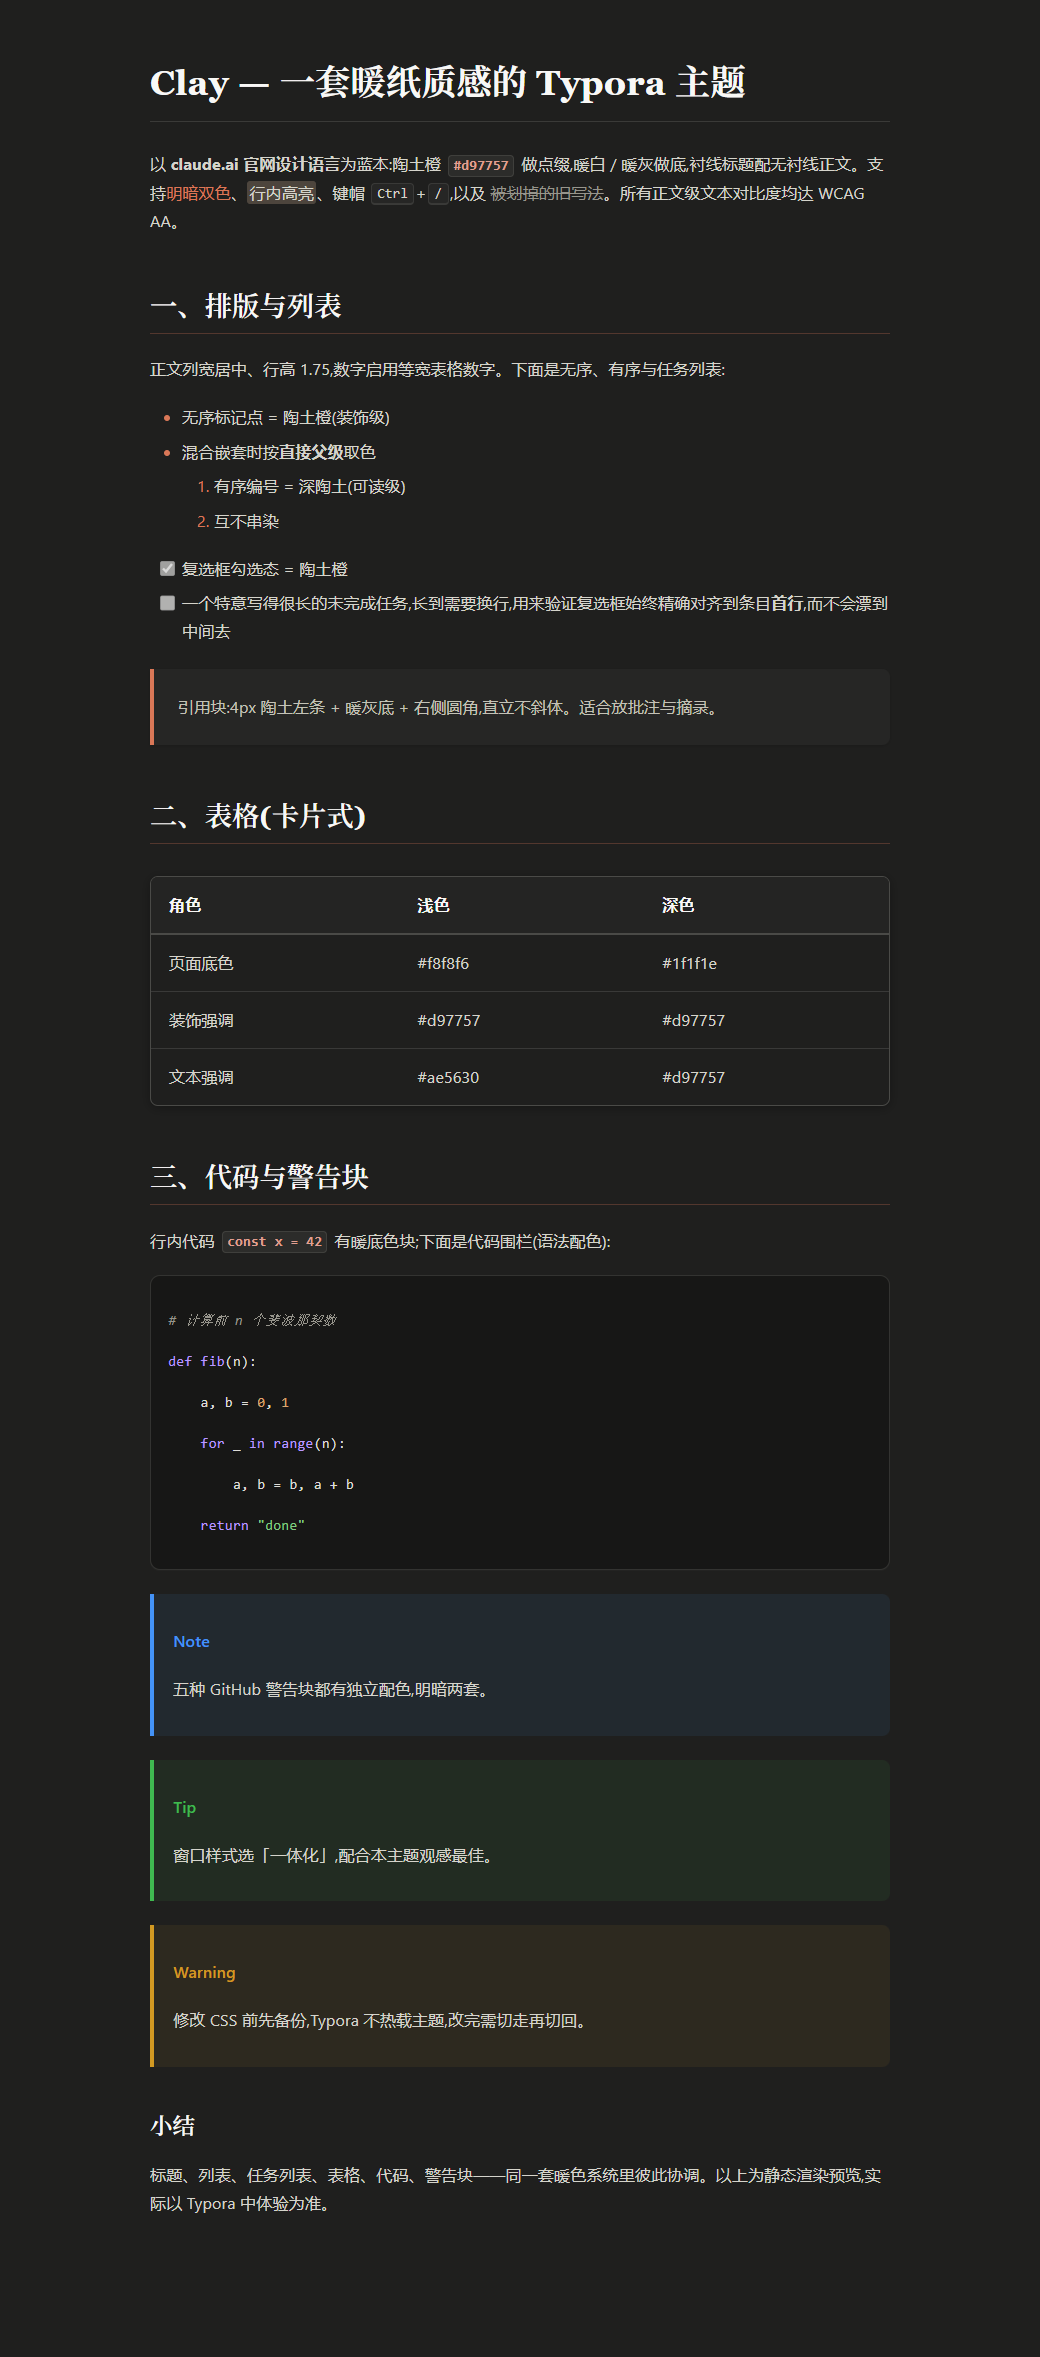
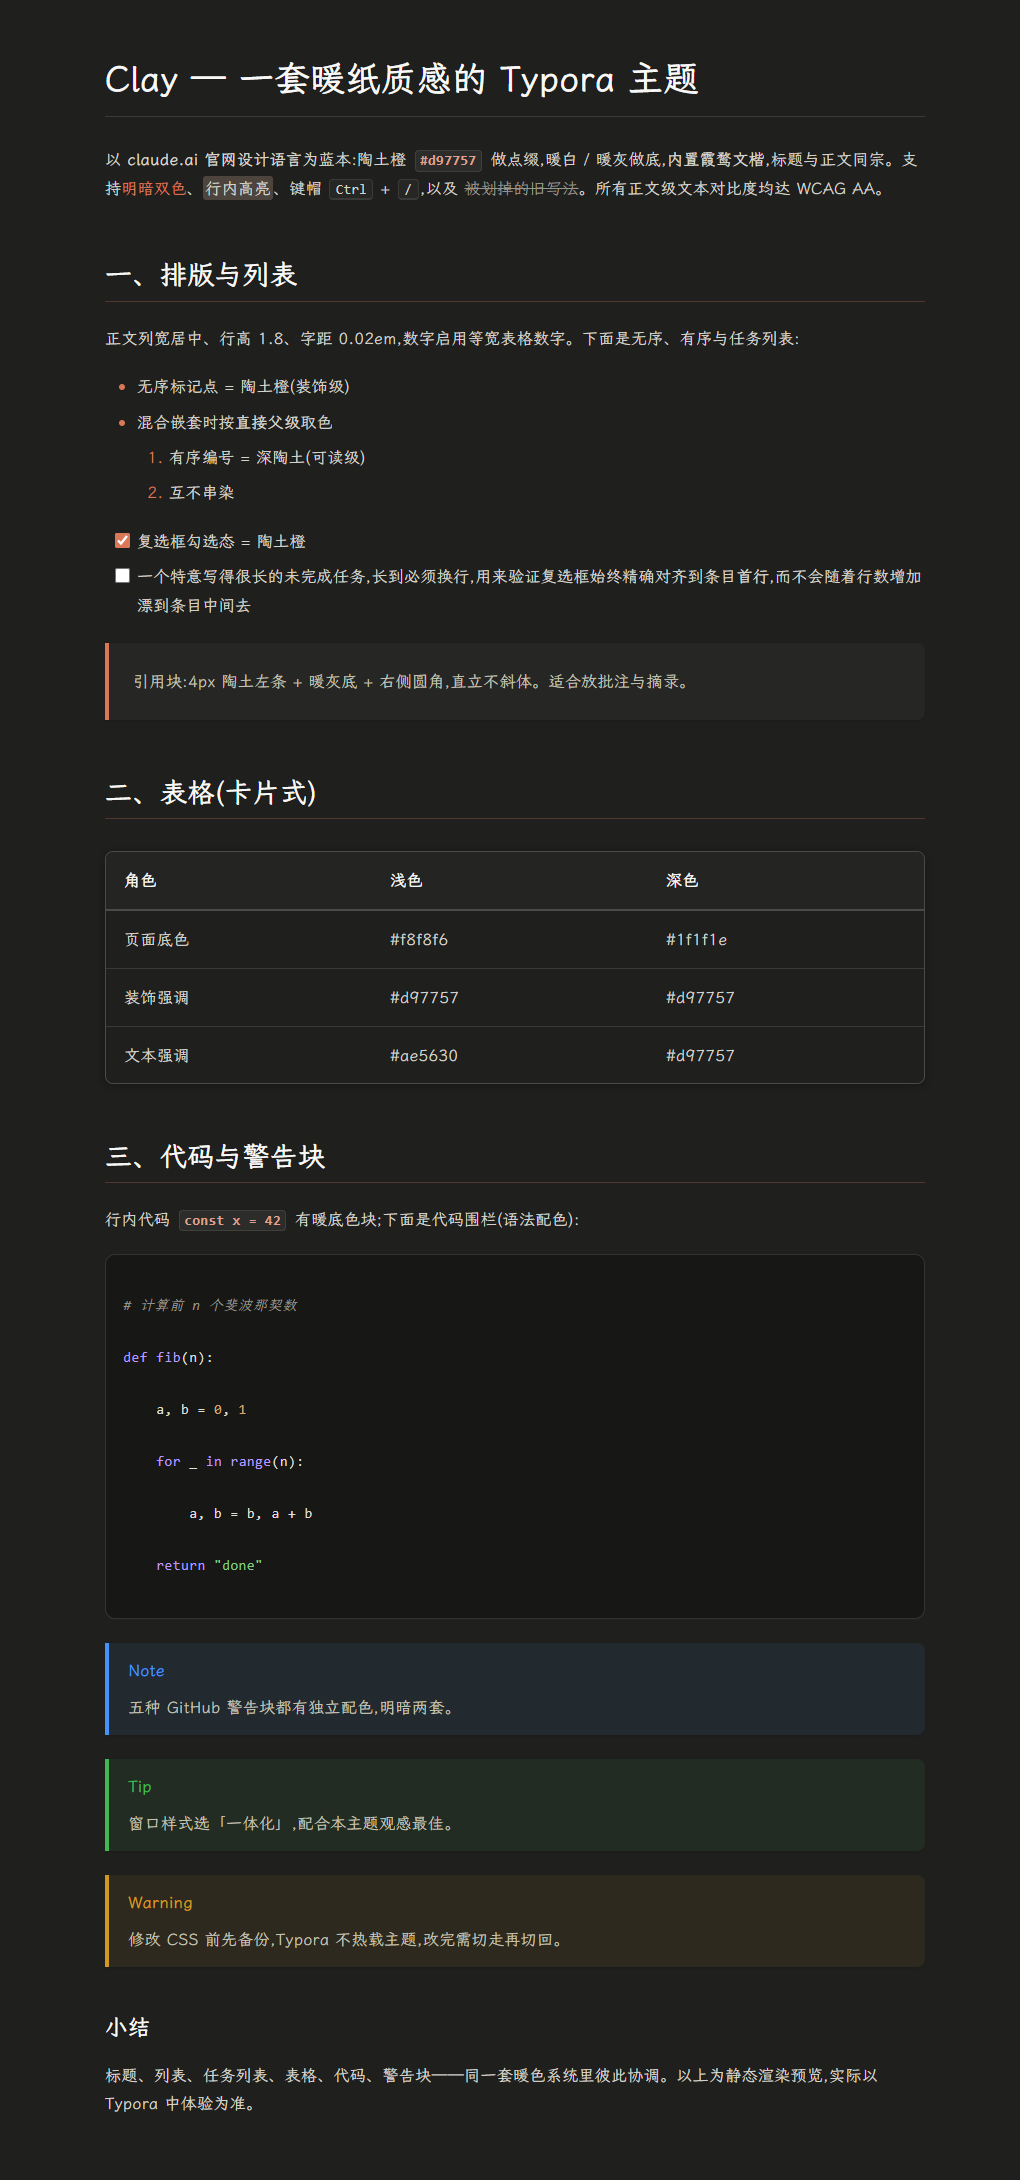
docs: 重拍明暗预览图,展示内置霞鹜文楷
- 预览图改用内置文楷后的渲染结果,标题与正文均为文楷字形
- 演示文档同步更新:行高 1.8 / 字距 0.02em、正文说明改为「标题与正文同宗」
- 长任务条目加长以保留复选框首行对齐的演示
- 移除 README 中「预览图摄于内置文楷之前」的临时说明

diff --git a/README.md b/README.md
@@ -25,8 +25,6 @@
 ![Clay 深色预览](screenshots/clay-dark.png)
 
 > 上图为主题渲染效果预览;实际以 Typora 中体验为准(建议配合「一体化」窗口样式)。
->
-> 注:预览图摄于内置霞鹜文楷之前,字体观感请以实际安装后为准。
 
 ---
 
